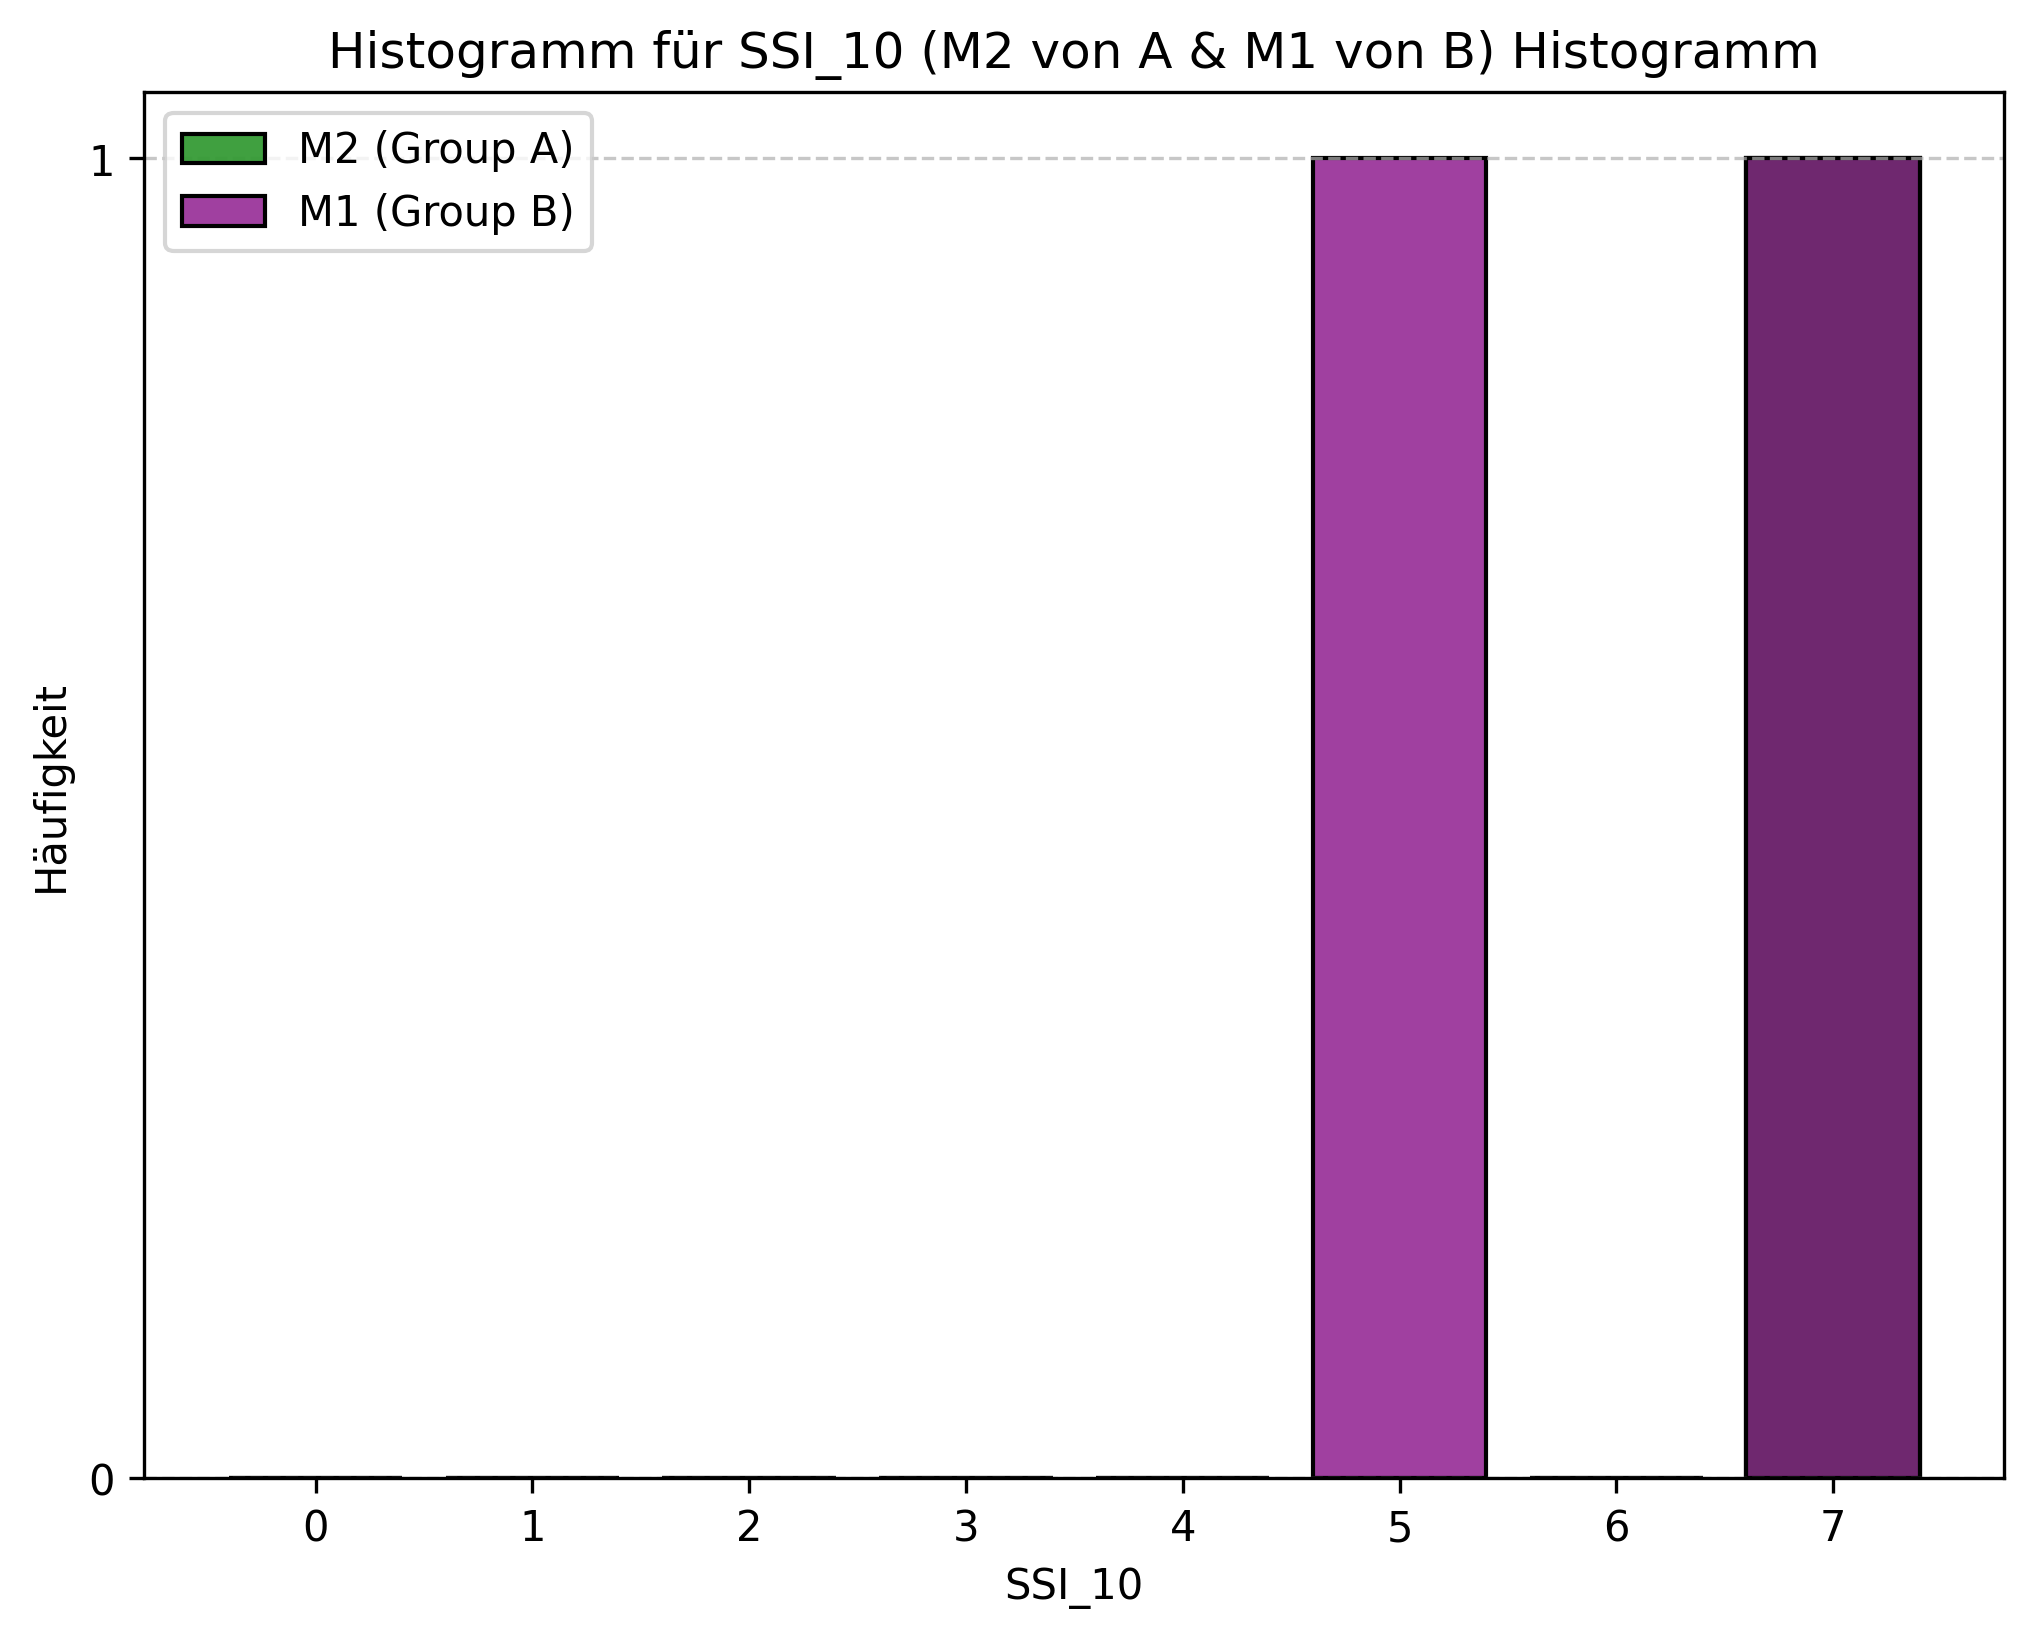
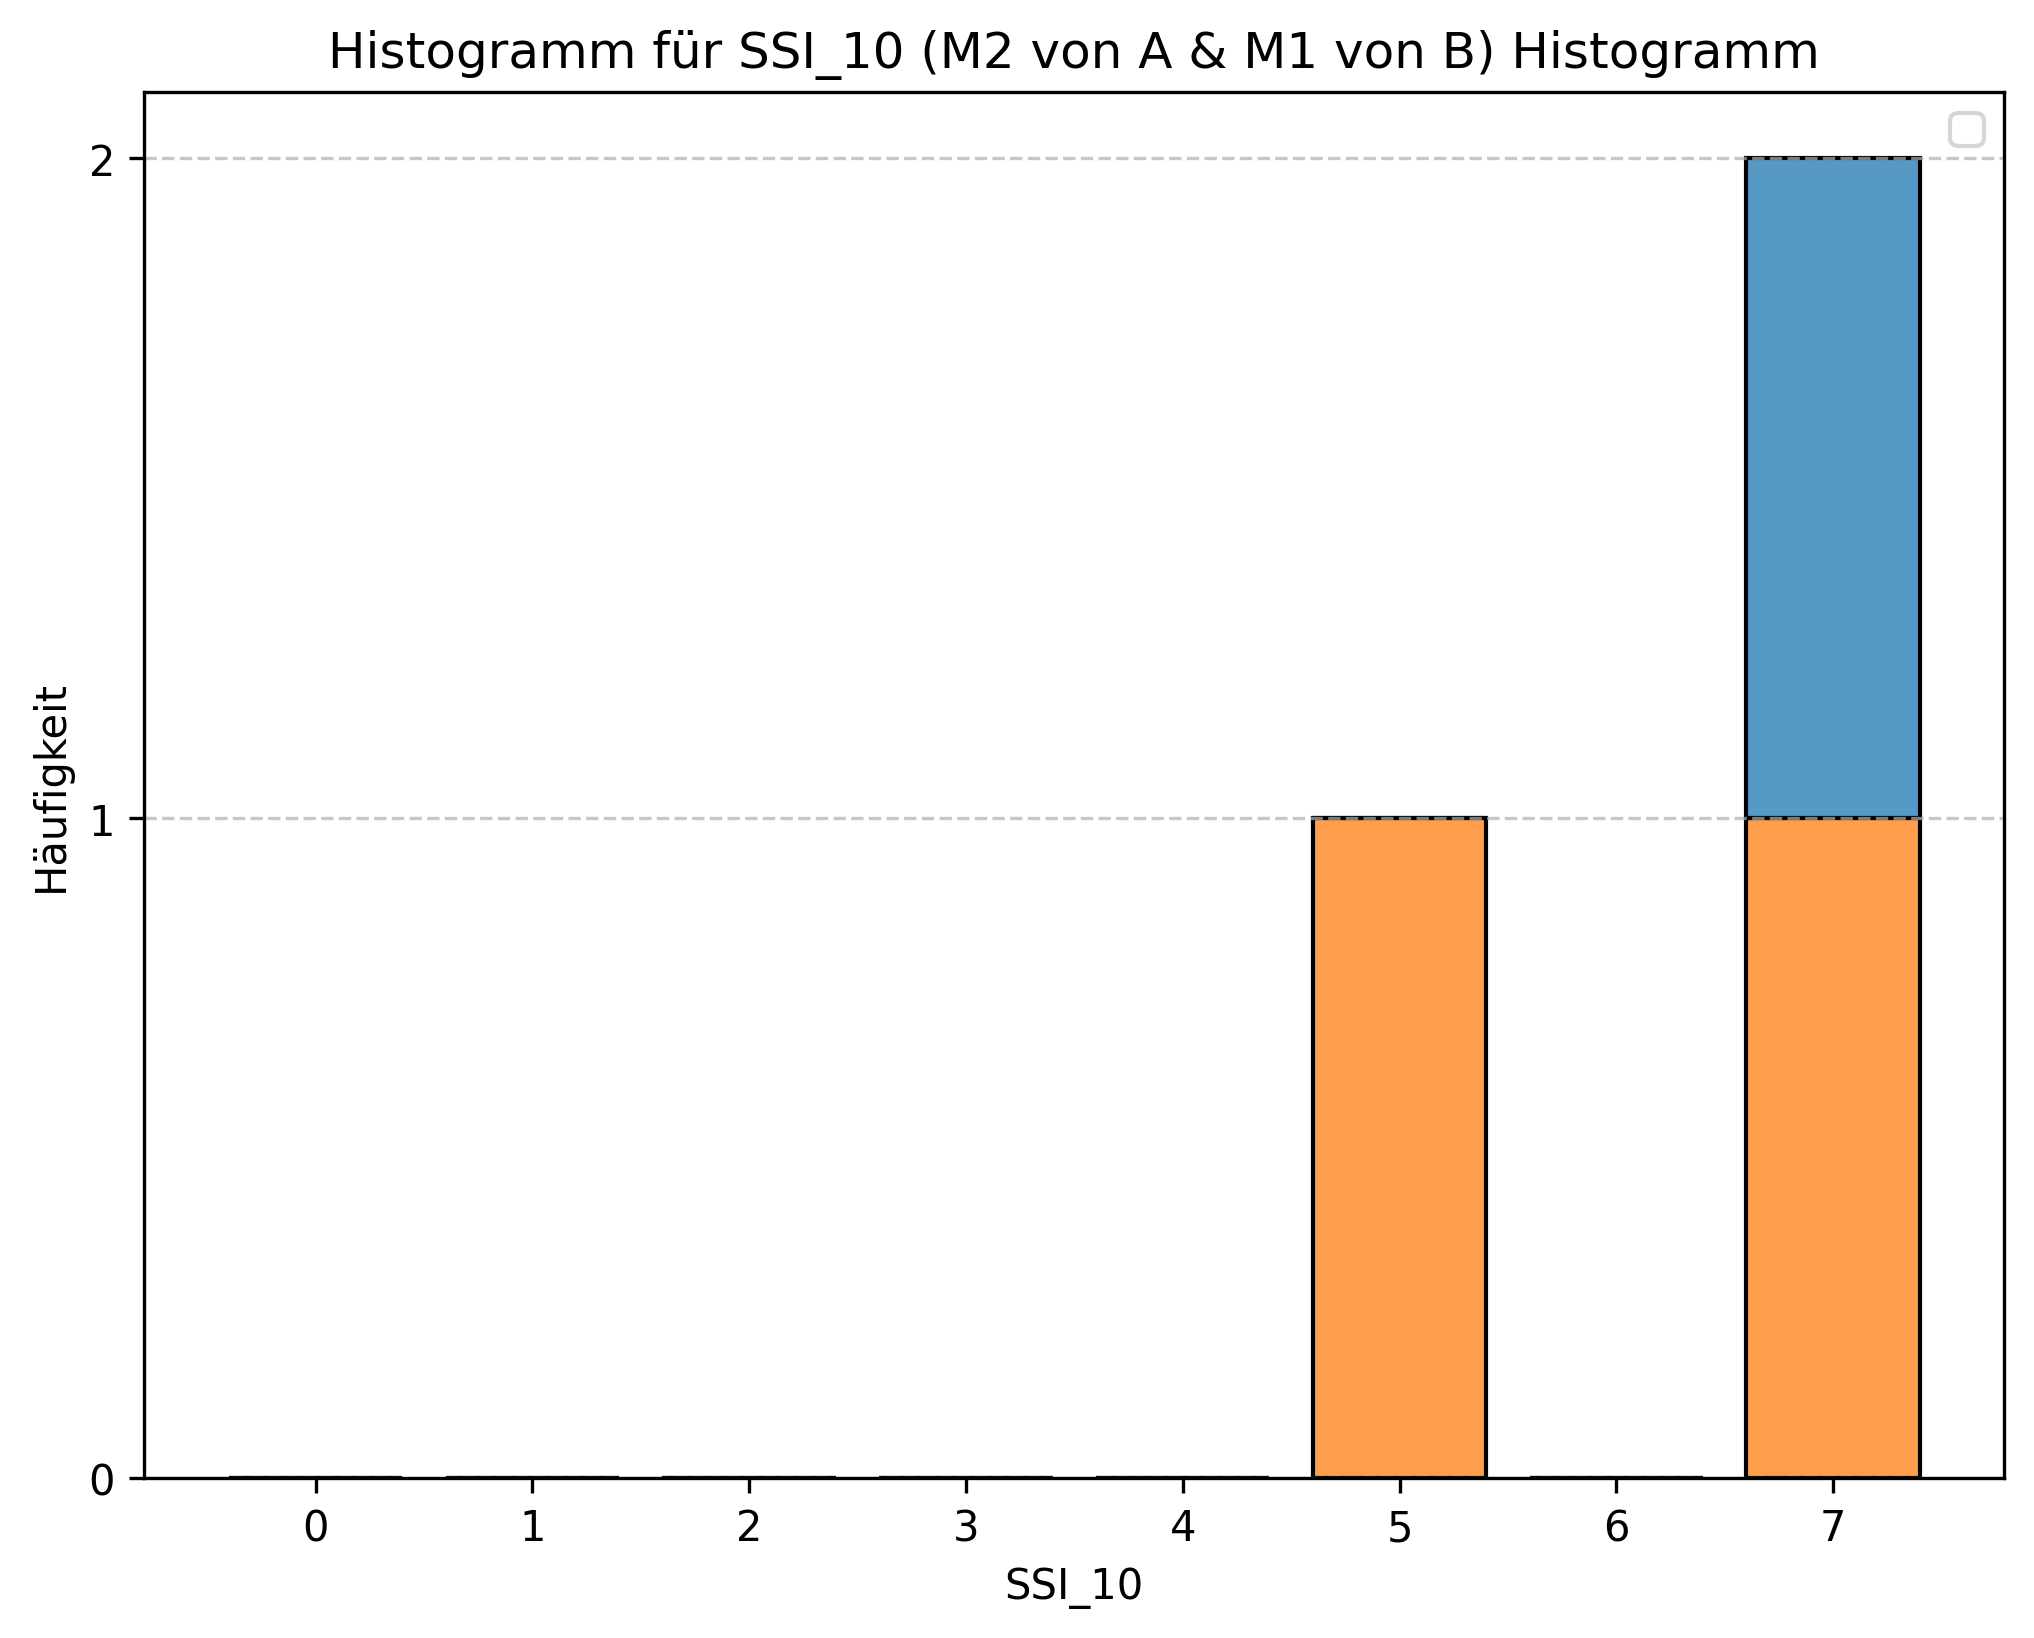
fixed stack charts

diff --git a/Code/Ad-Interim Analyse.py b/Code/Ad-Interim Analyse.py
@@ -189,8 +189,8 @@ def save_histplot(column_suffix, title_suffix):
 
     # **1⃣ M1 (A) & M2 (B) Histogramm**
     fig, ax = plt.subplots(figsize=(8, 6))
-    sns.histplot(data_a_m1, bins=bin_edges, color="blue", label="M1 (Group A)", ax=ax, multiple="dodge", shrink=0.8)
-    sns.histplot(data_b_m2, bins=bin_edges, color="red", label="M2 (Group B)", ax=ax, multiple="dodge", shrink=0.8)
+    sns.histplot(data_a_m1, bins=bin_edges, color="blue", label="M1 (Group A)", ax=ax, multiple="stack", shrink=0.8)
+    sns.histplot(data_b_m2, bins=bin_edges, color="red", label="M2 (Group B)", ax=ax, multiple="stack", shrink=0.8)
     
     plt.xlabel(column_suffix)
     plt.ylabel("Häufigkeit")
@@ -203,21 +203,35 @@ def save_histplot(column_suffix, title_suffix):
     plt.savefig(os.path.join(output_folder, f"hist_{column_suffix}_M1A_M2B.png"), dpi=300, bbox_inches="tight")
     plt.close()
 
-    # **2⃣ M2 (A) & M1 (B) Histogramm**
+    # **2⃣ M2 (A) & M1 (B) Histogramm (gestapelt)**
     fig, ax = plt.subplots(figsize=(8, 6))
-    sns.histplot(data_a_m2, bins=bin_edges, color="green", label="M2 (Group A)", ax=ax, multiple="dodge", shrink=0.8)
-    sns.histplot(data_b_m1, bins=bin_edges, color="purple", label="M1 (Group B)", ax=ax, multiple="dodge", shrink=0.8)
+
+    # **Fix: Daten kombinieren für richtiges Stapeln**
+    data_m2a = pd.DataFrame({"Wert": data_a_m2, "Group": "M2 (Group A)"})
+    data_m1b = pd.DataFrame({"Wert": data_b_m1, "Group": "M1 (Group B)"})
+
+    # Kombiniere beide Gruppen in ein gemeinsames DataFrame
+    data_combined = pd.concat([data_m2a, data_m1b])
+
+    # Jetzt funktioniert `multiple="stack"` korrekt
+    sns.histplot(data=data_combined, x="Wert", hue="Group", bins=bin_edges, multiple="stack", shrink=0.8, ax=ax)
 
     plt.xlabel(column_suffix)
     plt.ylabel("Häufigkeit")
     plt.title(f"Histogramm für {column_suffix} (M2 von A & M1 von B) {title_suffix}")
     plt.xticks(range(0, 8))
-    max_count = max(np.histogram(data_a_m2, bins=range(0, 9))[0].max(), np.histogram(data_b_m1, bins=range(0, 9))[0].max(), 1)
-    plt.yticks(range(0, max_count + 1))
+
+    # **Y-Achse auf ganze Zahlen setzen**
+    max_count = data_combined["Wert"].value_counts().max() + 1
+    plt.yticks(range(0, max_count))
+
     ax.yaxis.grid(True, linestyle="--", alpha=0.7)
     plt.legend()
+
+    # Speichern
     plt.savefig(os.path.join(output_folder, f"hist_{column_suffix}_M2A_M1B.png"), dpi=300, bbox_inches="tight")
     plt.close()
+
 
     print(f"✅ Histogramme für {column_suffix} gespeichert!")
 
